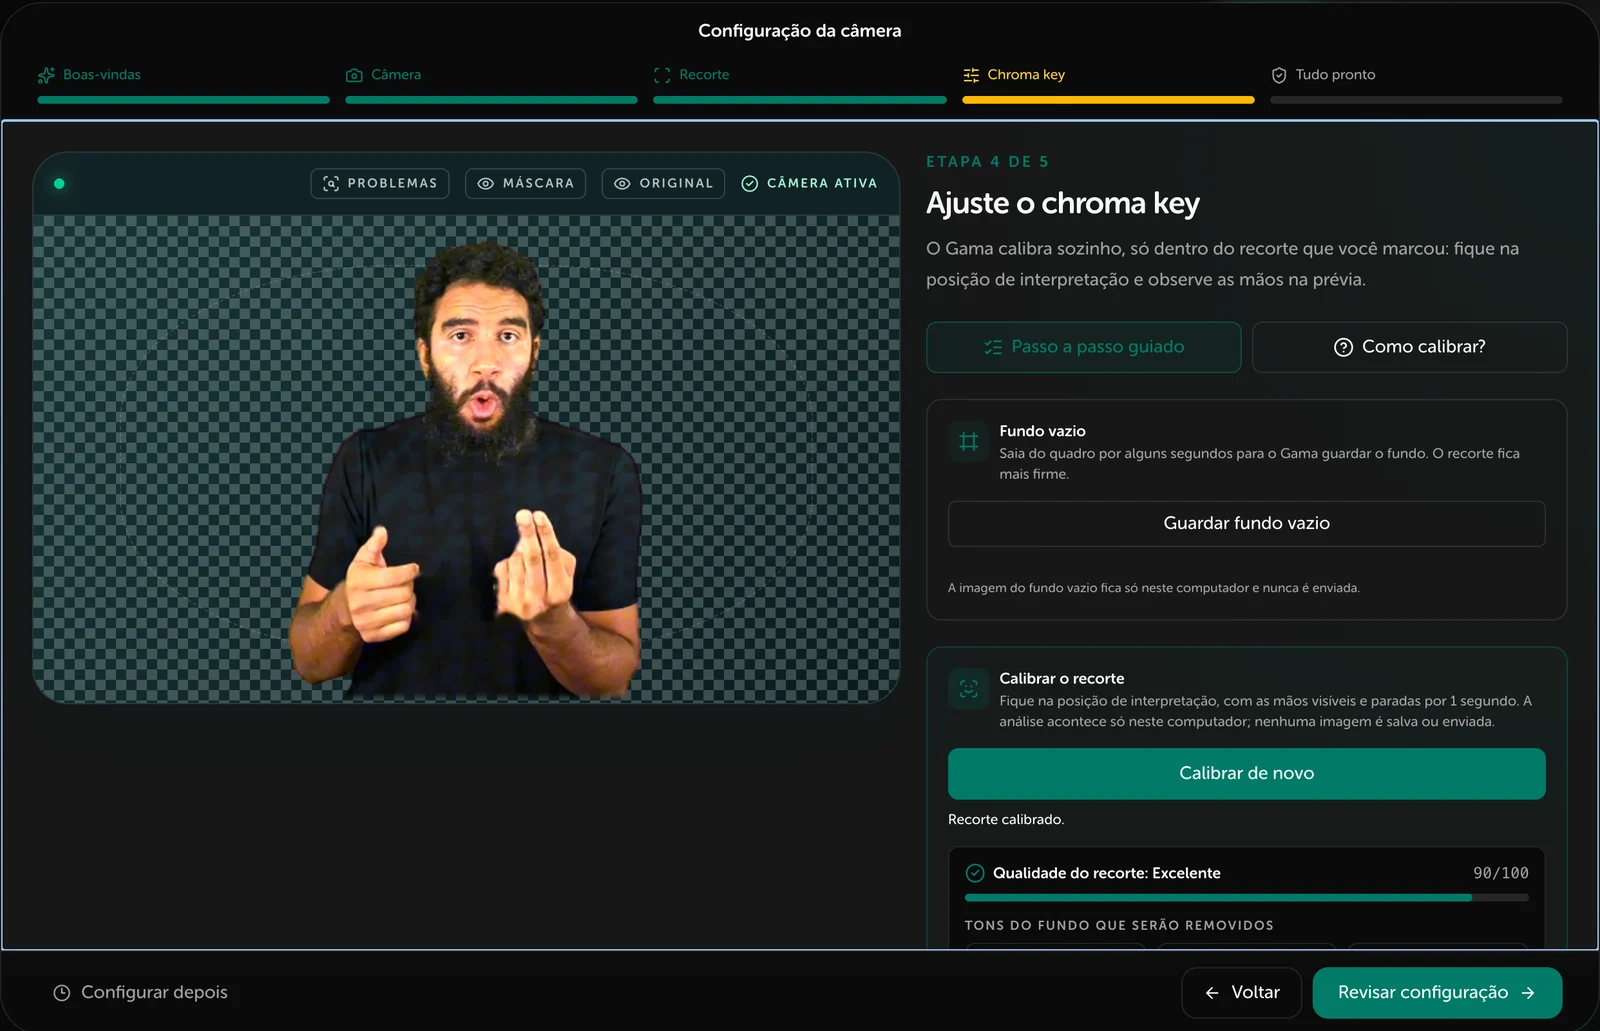
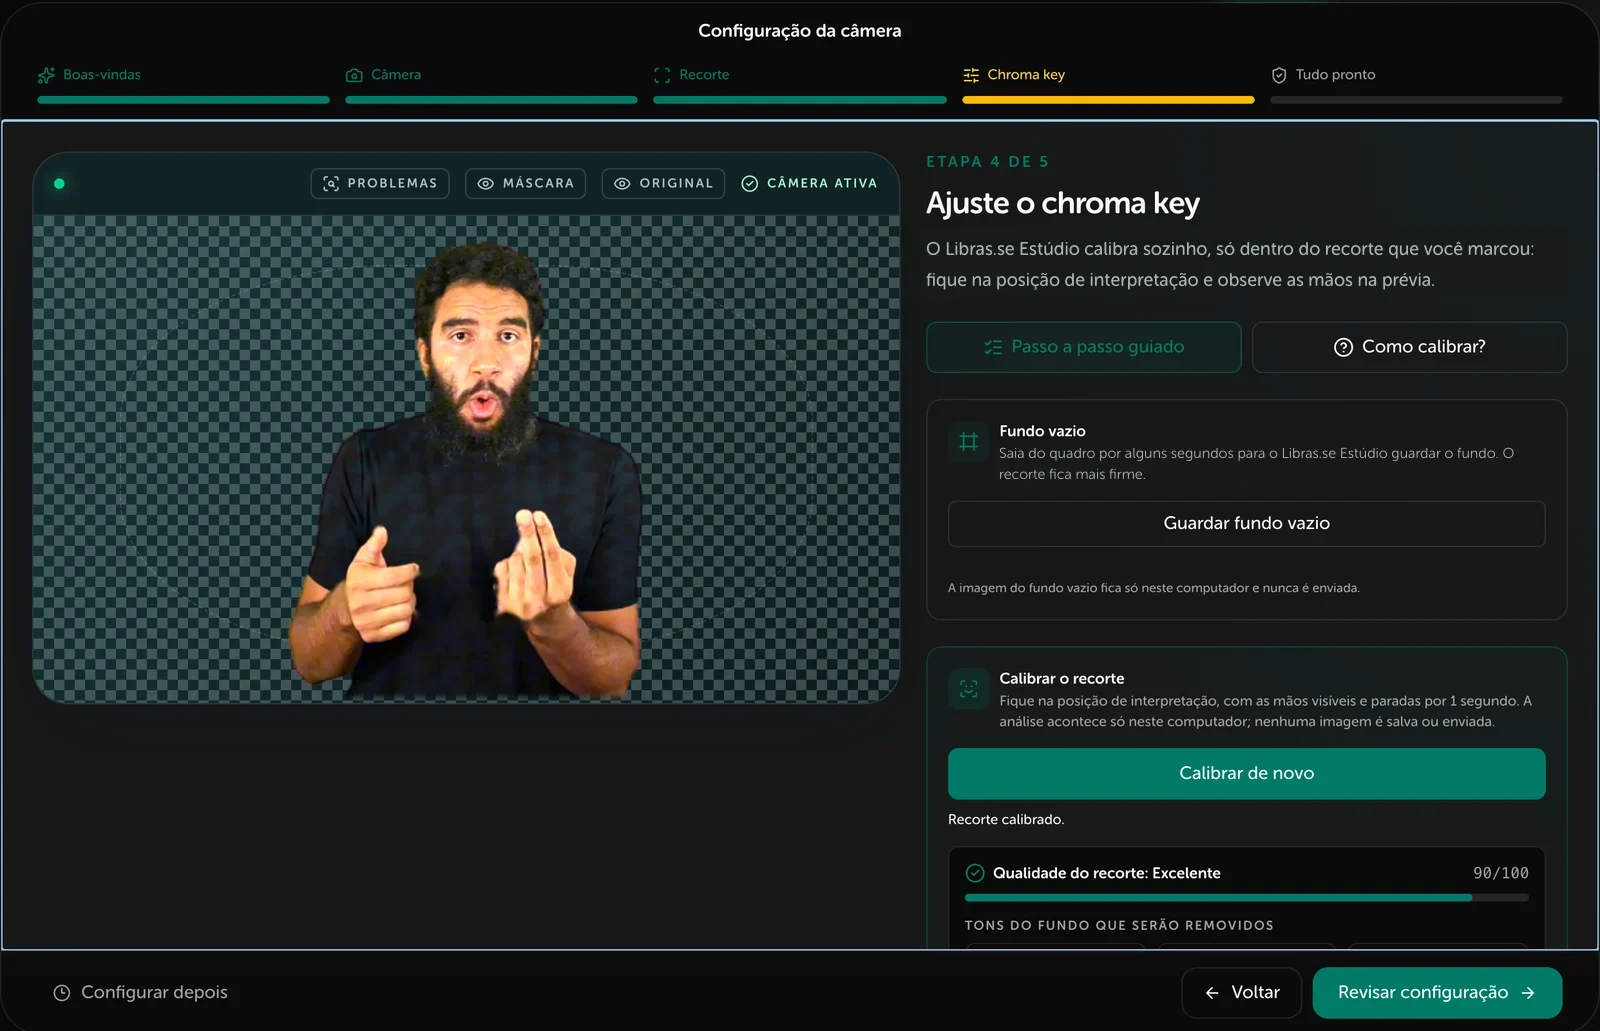
fix(estudio): prints sem a palavra "Gama" e Windows e Mac em destaque (#47)
- Prints da calibração e da câmera: os três textos que diziam "o Gama"
  agora dizem "o Libras.se Estúdio" (parágrafos refeitos na mesma fonte,
  corpo e cor do app; conferido por OCR)
- Título da galeria: "Um aplicativo para intérpretes, no Windows e no Mac"
- ?v=2 nas duas imagens para o cache não servir os prints antigos

Changed region(s): [[0.5625, 0.2173, 0.9688, 0.2793], [0.625, 0.4345, 0.9375, 0.4656]]

diff --git a/estudio/index.html b/estudio/index.html
@@ -785,7 +785,7 @@ form.card .btn{width:100%;margin-top:20px;padding:15px}
       </div>
       <div class="stage rv rr">
         <div class="pane on" id="pane-1" role="tabpanel" aria-labelledby="tab-1">
-          <div class="shot"><img src="/assets/img/estudio/calibragem.webp" width="1600" height="1031" alt="Tela real do Libras.se Estúdio no passo de chroma key, com a qualidade do recorte Excelente, 90 de 100" loading="lazy"/></div>
+          <div class="shot"><img src="/assets/img/estudio/calibragem.webp?v=2" width="1600" height="1031" alt="Tela real do Libras.se Estúdio no passo de chroma key, com a qualidade do recorte Excelente, 90 de 100" loading="lazy"/></div>
           <p class="cap">Tela real do Estúdio</p>
         </div>
         <div class="pane" id="pane-2" role="tabpanel" aria-labelledby="tab-2" aria-hidden="true">
@@ -985,11 +985,11 @@ form.card .btn{width:100%;margin-top:20px;padding:15px}
   <div class="w">
     <div class="sh rv">
       <span class="lbl"><i></i>Por dentro</span>
-      <h2 id="gal-t">Um aplicativo <span class="gt">feito para intérpretes</span></h2>
+      <h2 id="gal-t">Um aplicativo para intérpretes, <span class="gt">no Windows e no Mac</span></h2>
     </div>
     <div class="gal">
       <div class="col">
-        <figure class="rv"><img src="/assets/img/estudio/camera.webp" width="1600" height="1031" alt="Tela real do Estúdio escolhendo a câmera Full HD" loading="lazy"/><figcaption>Escolha da câmera</figcaption></figure>
+        <figure class="rv"><img src="/assets/img/estudio/camera.webp?v=2" width="1600" height="1031" alt="Tela real do Estúdio escolhendo a câmera Full HD" loading="lazy"/><figcaption>Escolha da câmera</figcaption></figure>
         <figure class="rv d1"><img src="/assets/img/estudio/tudo-pronto.webp" width="1600" height="1031" alt="Tela real do Estúdio com a configuração concluída" loading="lazy"/><figcaption>Tudo pronto para gravar</figcaption></figure>
       </div>
       <figure class="rv d2"><img src="/assets/img/estudio/fila.webp" width="690" height="1345" alt="Tela real da fila de aulas do Estúdio" loading="lazy"/><figcaption>A fila da disciplina</figcaption></figure>

diff --git a/tools/estudio-video/cena.html b/tools/estudio-video/cena.html
@@ -5,7 +5,7 @@
 <title>Libras.se Estúdio em 36 segundos (cena)</title>
 <!-- Cena do vídeo demonstrativo da página /estudio/. render.mjs captura quadro a quadro em 1600×900.
      Prévia em tempo real: sirva a raiz do repositório e abra /tools/estudio-video/cena.html?play
-     As telas do app são recriadas a partir dos prints reais do Libras.se Estúdio (GAMA 1.5.1),
+     As telas do app são recriadas a partir dos prints reais do Libras.se Estúdio (versão 1.5.1),
      com dados fictícios. -->
 <style>
 @font-face{font-family:'M';src:url('/assets/fonts/museo-sans-rounded-300.woff2') format('woff2');font-weight:300}

diff --git a/tools/estudio-video/README.md b/tools/estudio-video/README.md
@@ -11,7 +11,7 @@ Vídeo de 36 s, sem som, que mostra o Estúdio de ponta a ponta:
 | 25 a 31,5 s | 4 · Aprova | painel da coordenação: nota técnica 96, clique em Aprovar, contadores sobem |
 | 31,5 a 36 s | Encerramento | os quatro diferenciais e libras.se/estudio |
 
-As telas do app são recriadas em HTML a partir dos prints reais do Estúdio (GAMA 1.5.1), com dados
+As telas do app são recriadas em HTML a partir dos prints reais do Estúdio (versão 1.5.1), com dados
 fictícios. A intérprete é uma gravação nossa em fundo verde (`fonte/teste-croma.mp4`, banco de vídeos
 LIBRAS.SE, direitos próprios). A aula de fundo é fictícia (`aula.html`).
 
